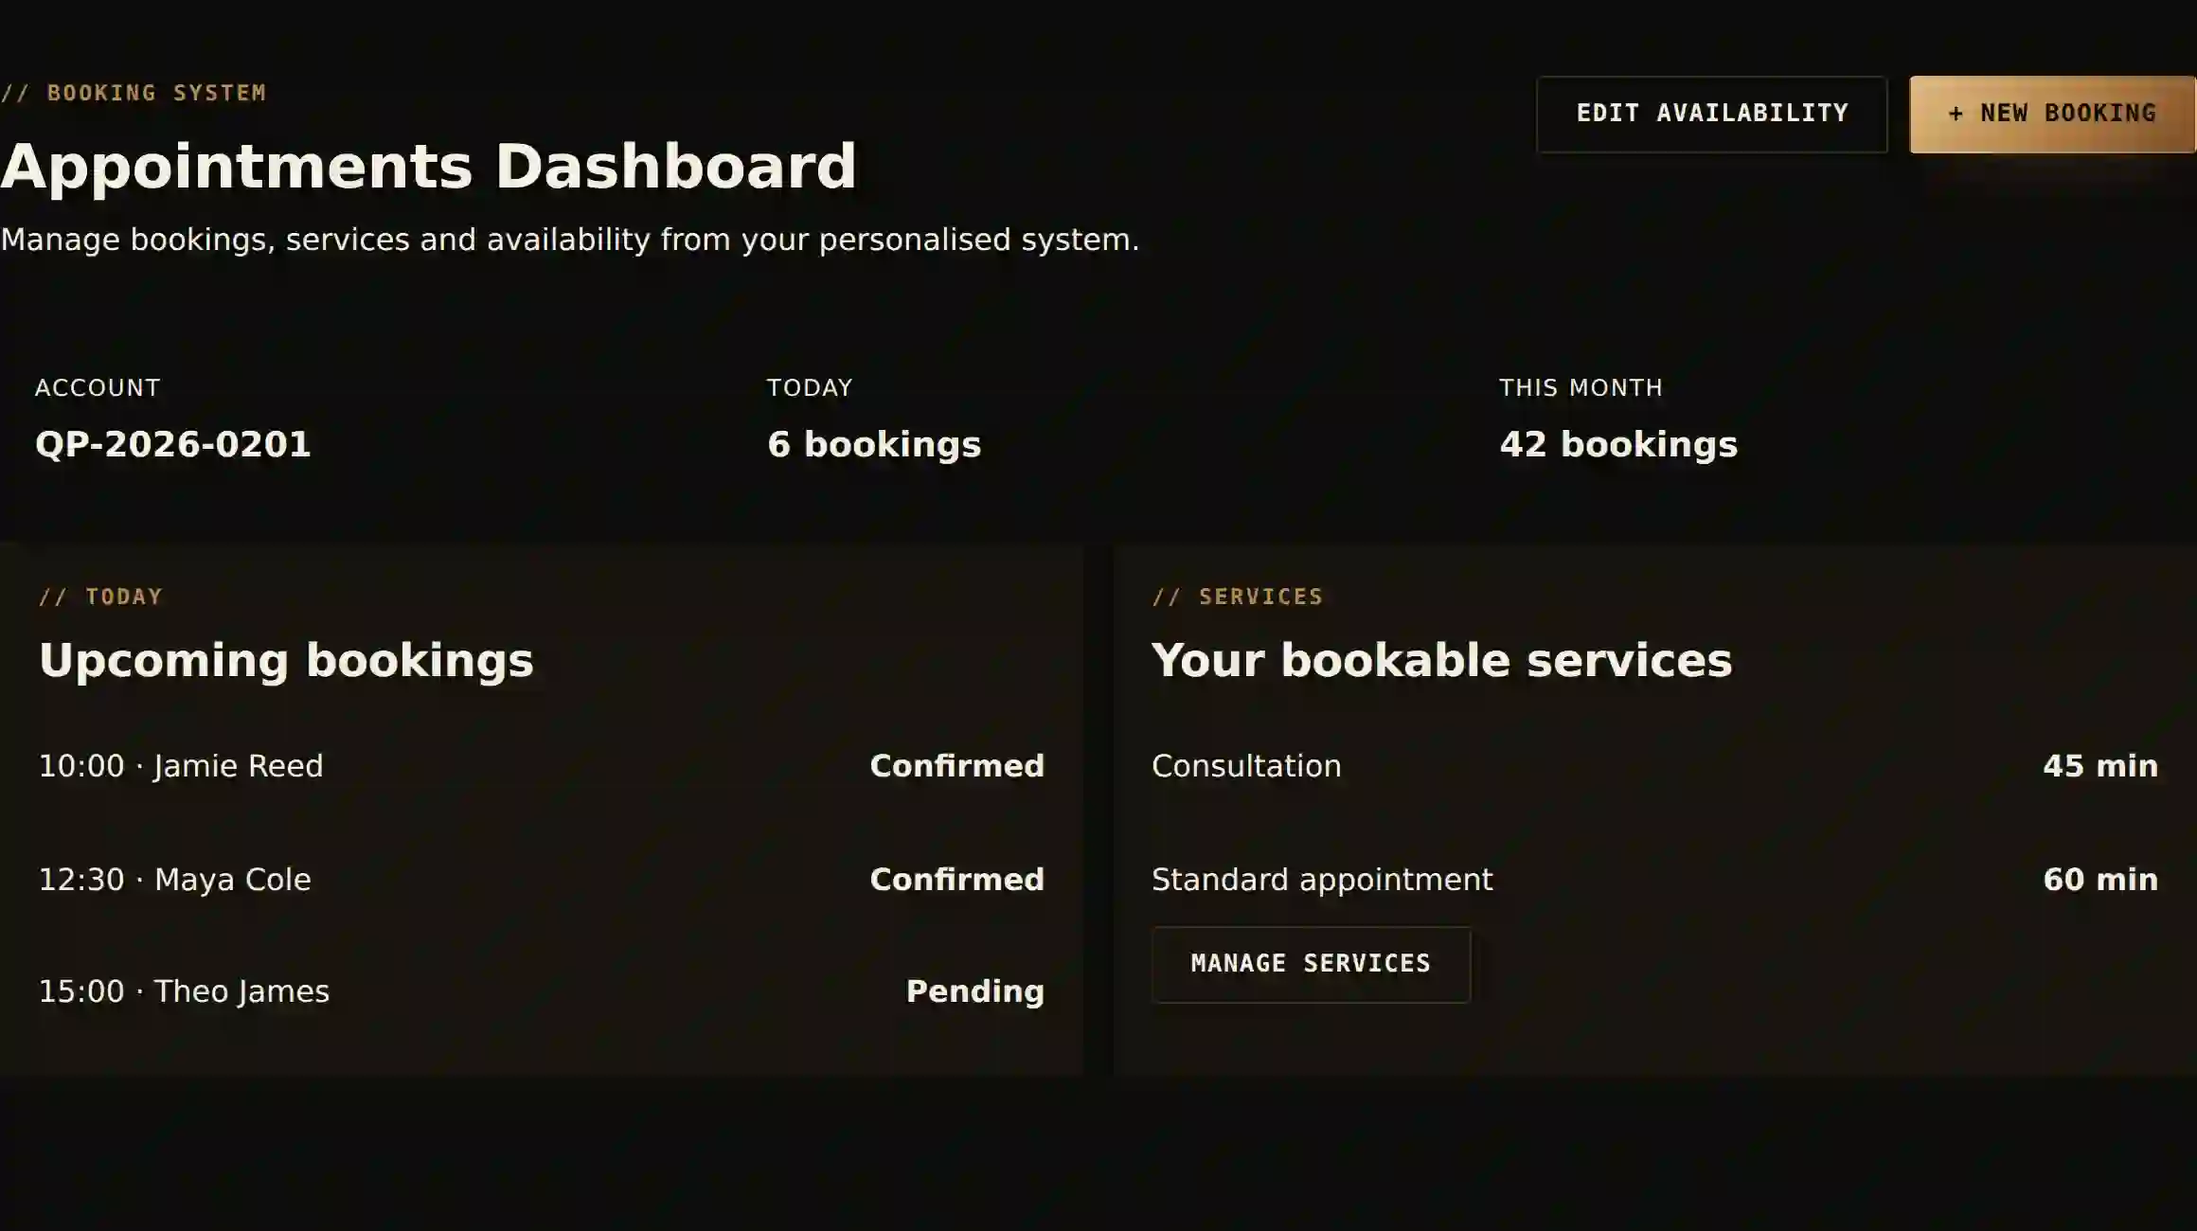
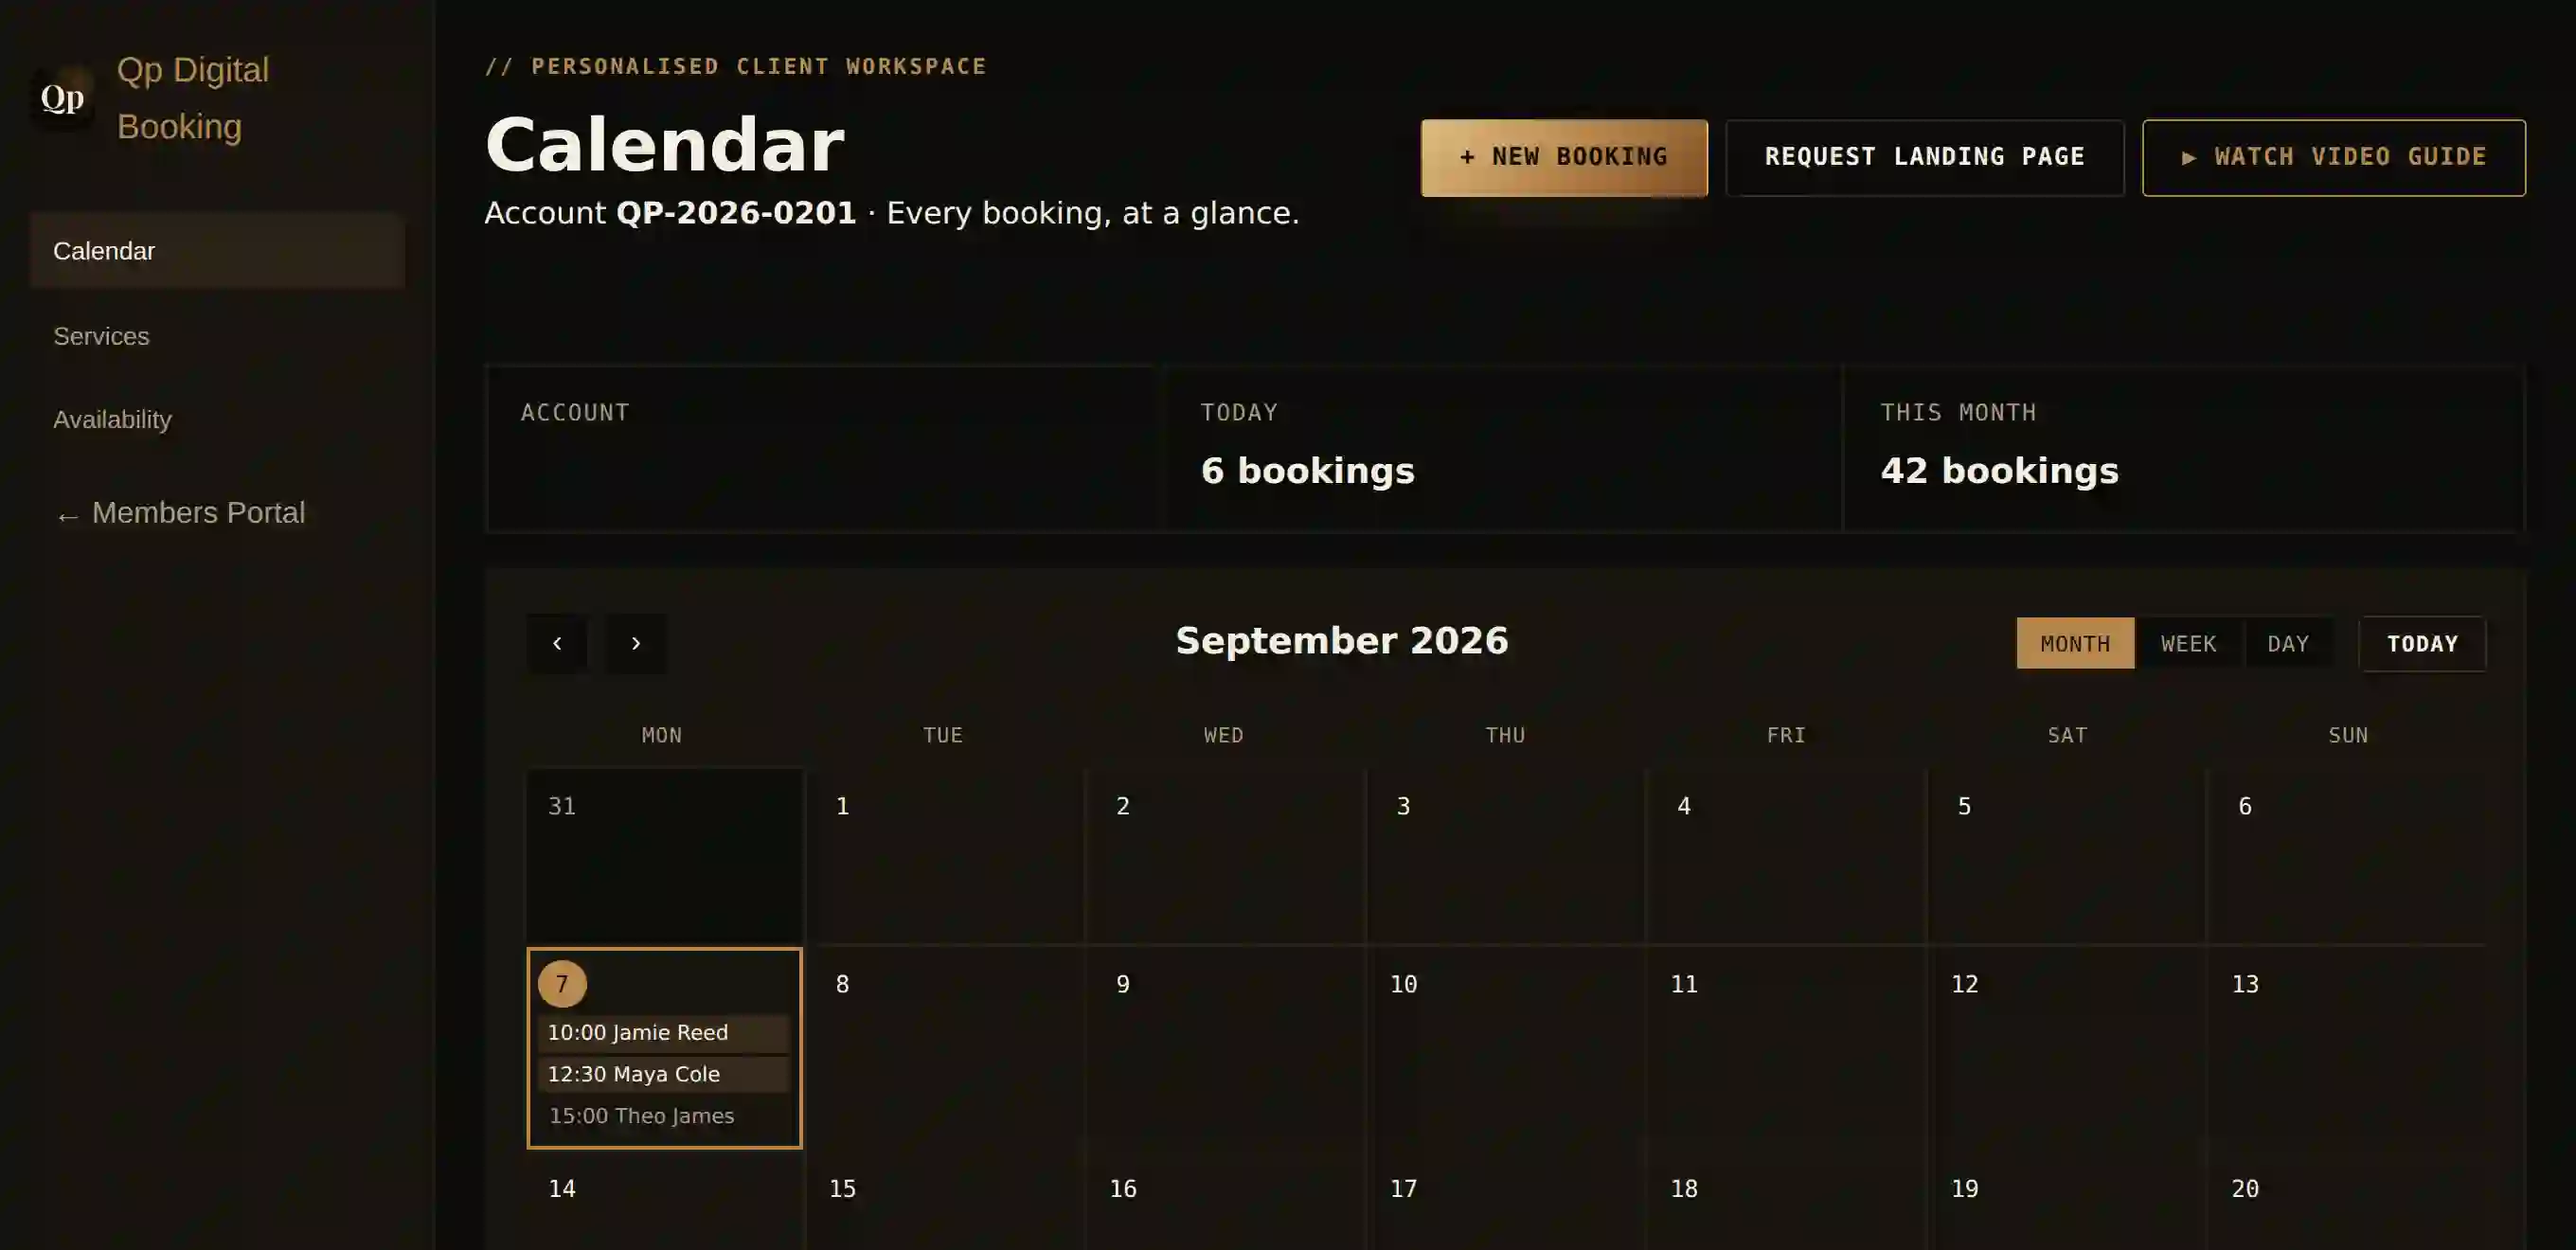
Update the Examples page's Booking System screenshot
The screenshot was captured before the Month/Week/Day calendar rebuild
and still showed the old static "Appointments Dashboard" layout — no
longer what the real product looks like. Recaptured against the current
booking-system.html (Month view, today's real bookings, the view
switcher and topbar actions all visible), matched to the same 1360x660
capture size as the CRM screenshot beside it.

Claude-Session: https://claude.ai/code/session_017f4zabL7G7XmGTqdYPHNAd

diff --git a/examples.html b/examples.html
@@ -148,7 +148,7 @@
                 <span class="showcase-card__dot"></span><span class="showcase-card__dot"></span><span class="showcase-card__dot"></span>
                 <span class="showcase-card__url mono">Qp Digital — Booking System</span>
               </div>
-              <div class="showcase-card__body"><img src="assets/showcase-booking.webp" alt="Real screenshot of the Qp Digital Booking System dashboard, showing today's appointments and bookable services" loading="lazy" width="1200" height="620"></div>
+              <div class="showcase-card__body"><img src="assets/showcase-booking.webp" alt="Real screenshot of the Qp Digital Booking System calendar, showing a month view with today's appointments and the Month/Week/Day view switcher" loading="lazy" width="1360" height="660"></div>
             </div>
             <h3>Booking System</h3>
             <p>Customers book online, any time — you see today's schedule and this month's total at a glance.</p>
